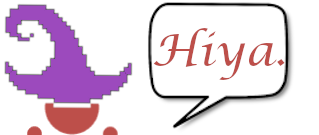
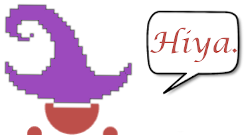
Added images to Readme

diff --git a/README.md b/README.md
@@ -1,5 +1,6 @@
 # closet-wizard
 
+![Hello from Closet Wizard](./public/images/peekingWizardtext.png)
 ## Intro
 This app makes it easier for you to start your day by putting your entire closet at your fingertips. With just a few clicks, you can figure out what to wear before you even get out of bed. 
 
@@ -8,7 +9,7 @@ You can also use the outfit creation feature to pre-plan outfits for the week or
 ## Built With
 Closet Wizard was built with Node.js and Express. It utilizes EJS for HTML rendering and Bulma for CSS.
 
-
+![Demo Closet](./public/images/closet.png)![Demo Closet Outfits](./public/images/closet2.png)
 ## How it Works
 Users can log-in via Google, which was made possible through the use of Passport.js.  Users must be logged in to access the closet page or they will be redirected to the index. Once a user has logged-in, their email is stored in the users table of the database and they are assigned a unique user ID. If this is a user's first time logging-in, they will be redirected to the "New User" page and asked to enter a display name.
 
